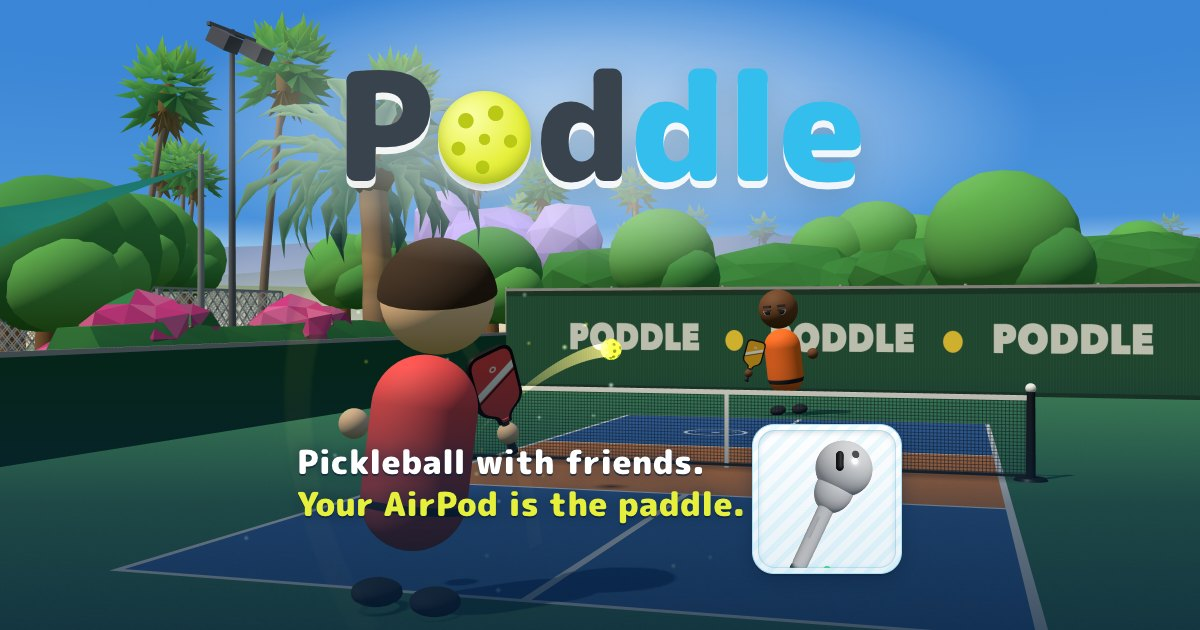
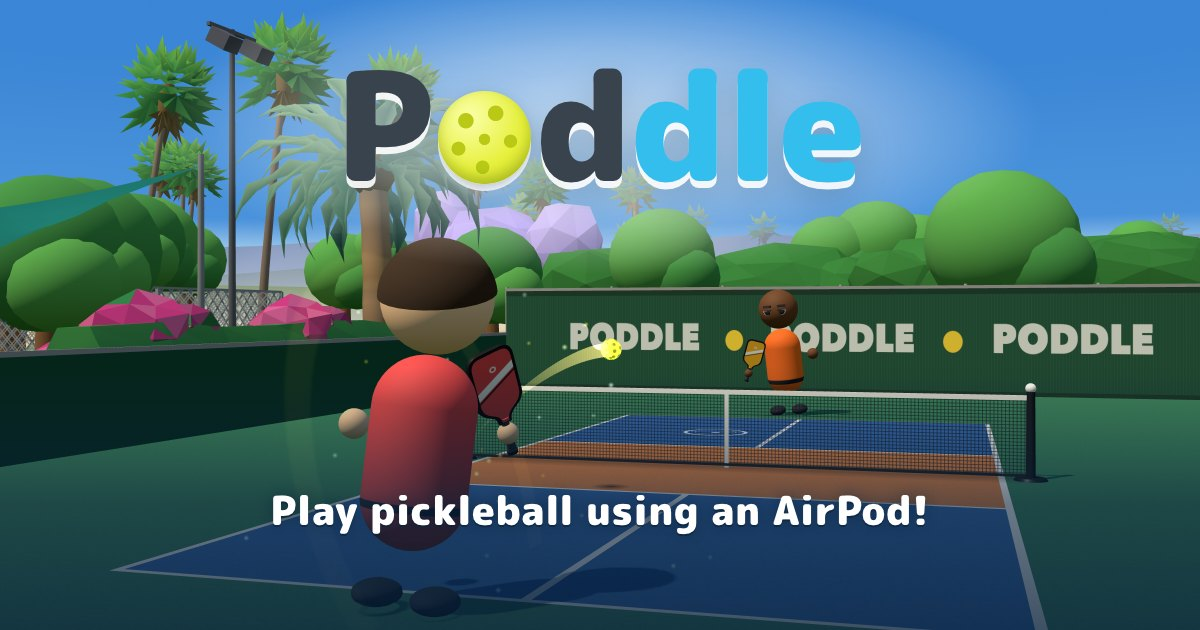
The site is poddleball.com: every URL, a redirect from the old names, and a simpler share card

Changed region(s): [[0.2158, 0.6635, 0.7708, 0.9349]]

diff --git a/web/how-to-play.html b/web/how-to-play.html
@@ -5,7 +5,7 @@
 <meta name="viewport" content="width=device-width, initial-scale=1">
 <title>How to play Poddle: AirPod pickleball</title>
 <meta name="description" content="Set up Poddle on your Mac, hold one AirPod like a paddle, and play friends online or Matt the bot.">
-<link rel="canonical" href="https://poddle.fly.dev/how-to-play.html">
+<link rel="canonical" href="https://poddleball.com/how-to-play.html">
 <meta name="robots" content="index, follow, max-image-preview:large">
 <meta name="theme-color" content="#dfeef6">
 <meta name="color-scheme" content="light">
@@ -16,20 +16,20 @@
 <meta property="og:site_name" content="Poddle">
 <meta property="og:title" content="How to play Poddle">
 <meta property="og:description" content="Set up Poddle on your Mac, hold one AirPod like a paddle, and play friends online or Matt the bot.">
-<meta property="og:url" content="https://poddle.fly.dev/how-to-play.html">
+<meta property="og:url" content="https://poddleball.com/how-to-play.html">
 <meta property="og:locale" content="en_US">
-<meta property="og:image" content="https://poddle.fly.dev/og.jpg?v=2">
-<meta property="og:image:secure_url" content="https://poddle.fly.dev/og.jpg?v=2">
+<meta property="og:image" content="https://poddleball.com/og.jpg?v=3">
+<meta property="og:image:secure_url" content="https://poddleball.com/og.jpg?v=3">
 <meta property="og:image:type" content="image/jpeg">
 <meta property="og:image:width" content="1200">
 <meta property="og:image:height" content="630">
-<meta property="og:image:alt" content="Poddle logo over a sunny pickleball court. A player in red hits the ball over the net to Matt in orange. A white AirPod sits beside the words: Pickleball with friends. Your AirPod is the paddle.">
+<meta property="og:image:alt" content="Poddle logo over a sunny pickleball court. A player in red hits the ball over the net to Matt in orange. Below them, the words: Play pickleball using an AirPod!">
 
 <meta name="twitter:card" content="summary_large_image">
 <meta name="twitter:title" content="How to play Poddle">
 <meta name="twitter:description" content="Set up Poddle on your Mac, hold one AirPod like a paddle, and play friends online or Matt the bot.">
-<meta name="twitter:image" content="https://poddle.fly.dev/og.jpg?v=2">
-<meta name="twitter:image:alt" content="Poddle logo over a sunny pickleball court. A player in red hits the ball over the net to Matt in orange. A white AirPod sits beside the words: Pickleball with friends. Your AirPod is the paddle.">
+<meta name="twitter:image" content="https://poddleball.com/og.jpg?v=3">
+<meta name="twitter:image:alt" content="Poddle logo over a sunny pickleball court. A player in red hits the ball over the net to Matt in orange. Below them, the words: Play pickleball using an AirPod!">
 
 <link rel="icon" href="/favicon.svg" type="image/svg+xml">
 <link rel="icon" href="/favicon-32.png" type="image/png" sizes="32x32">
@@ -44,18 +44,18 @@
   "@graph": [
     {
       "@type": "WebPage",
-      "@id": "https://poddle.fly.dev/how-to-play.html",
-      "url": "https://poddle.fly.dev/how-to-play.html",
+      "@id": "https://poddleball.com/how-to-play.html",
+      "url": "https://poddleball.com/how-to-play.html",
       "name": "How to play Poddle",
       "description": "Set up Poddle on your Mac, hold one AirPod like a paddle, and play friends online or Matt the bot.",
       "inLanguage": "en",
-      "primaryImageOfPage": "https://poddle.fly.dev/og.jpg",
-      "about": { "@id": "https://poddle.fly.dev/#game" },
-      "isPartOf": { "@type": "WebSite", "name": "Poddle", "url": "https://poddle.fly.dev/" }
+      "primaryImageOfPage": "https://poddleball.com/og.jpg",
+      "about": { "@id": "https://poddleball.com/#game" },
+      "isPartOf": { "@type": "WebSite", "name": "Poddle", "url": "https://poddleball.com/" }
     },
     {
       "@type": "FAQPage",
-      "@id": "https://poddle.fly.dev/how-to-play.html#questions",
+      "@id": "https://poddleball.com/how-to-play.html#questions",
       "mainEntity": [
         {
           "@type": "Question",
@@ -119,7 +119,7 @@
 
 <main class="wrap">
   <section class="intro" aria-labelledby="title">
-    <img class="hero" src="/og.jpg?v=2" width="1200" height="630" alt="Poddle logo over a sunny pickleball court. A player in red hits the ball over the net to Matt in orange. A white AirPod sits beside the words: Pickleball with friends. Your AirPod is the paddle.">
+    <img class="hero" src="/og.jpg?v=3" width="1200" height="630" alt="Poddle logo over a sunny pickleball court. A player in red hits the ball over the net to Matt in orange. Below them, the words: Play pickleball using an AirPod!">
     <h1 id="title">How to play Poddle</h1>
     <p class="lead">Poddle is pickleball in your browser. One AirPod in your hand is the paddle. Swing it and the paddle on screen swings with you. Play a friend online, play Matt the bot, or watch a match.</p>
     <p class="note"><strong>No Mac?</strong> Poddle plays on a Mac. On a phone or a Windows PC you can still watch a match. Press Play and pick Watch next to a court.</p>
@@ -154,7 +154,7 @@
       <li>Start the helper. It says <samp>motion bridge on</samp>. If your Mac asks to let Terminal use Motion and Fitness, choose Allow. Keep this window open while you play.
         <pre><code>node bridge/bridge.js</code></pre>
       </li>
-      <li>Open <a href="/">poddle.fly.dev</a> in Chrome. If Chrome asks to connect to devices on your local network, choose Allow. That is how the page reaches the helper.</li>
+      <li>Open <a href="/">poddleball.com</a> in Chrome. If Chrome asks to connect to devices on your local network, choose Allow. That is how the page reaches the helper.</li>
       <li>Hold one AirPod in your hand. Leave the other in its case.</li>
       <li>Hold it like a paddle handle, pointing at the screen, and keep still for 5 seconds. Then tip it up. Any grip works. Press <kbd>C</kbd> to start over.</li>
     </ol>

diff --git a/web/index.html b/web/index.html
@@ -4,7 +4,7 @@
 <meta name="viewport" content="width=device-width,initial-scale=1">
 <title>Poddle: pickleball you play with an AirPod</title>
 <meta name="description" content="Hold one AirPod and swing it like a paddle. Play pickleball with friends online, take on Matt the bot, or watch a match. Free, in Chrome on a Mac.">
-<link rel="canonical" href="https://poddle.fly.dev/">
+<link rel="canonical" href="https://poddleball.com/">
 <meta name="robots" content="index, follow, max-image-preview:large">
 <meta name="theme-color" content="#dfeef6">
 <meta name="color-scheme" content="light">
@@ -15,20 +15,20 @@
 <meta property="og:site_name" content="Poddle">
 <meta property="og:title" content="Poddle: pickleball you play with an AirPod">
 <meta property="og:description" content="Swing one AirPod like a paddle. Play friends online or take on Matt the bot. Free, on a Mac in Chrome.">
-<meta property="og:url" content="https://poddle.fly.dev/">
+<meta property="og:url" content="https://poddleball.com/">
 <meta property="og:locale" content="en_US">
-<meta property="og:image" content="https://poddle.fly.dev/og.jpg?v=2">
-<meta property="og:image:secure_url" content="https://poddle.fly.dev/og.jpg?v=2">
+<meta property="og:image" content="https://poddleball.com/og.jpg?v=3">
+<meta property="og:image:secure_url" content="https://poddleball.com/og.jpg?v=3">
 <meta property="og:image:type" content="image/jpeg">
 <meta property="og:image:width" content="1200">
 <meta property="og:image:height" content="630">
-<meta property="og:image:alt" content="Poddle logo over a sunny pickleball court. A player in red hits the ball over the net to Matt in orange. A white AirPod sits beside the words: Pickleball with friends. Your AirPod is the paddle.">
+<meta property="og:image:alt" content="Poddle logo over a sunny pickleball court. A player in red hits the ball over the net to Matt in orange. Below them, the words: Play pickleball using an AirPod!">
 
 <meta name="twitter:card" content="summary_large_image">
 <meta name="twitter:title" content="Poddle: pickleball you play with an AirPod">
 <meta name="twitter:description" content="Swing one AirPod like a paddle. Play friends online or take on Matt the bot. Free, on a Mac in Chrome.">
-<meta name="twitter:image" content="https://poddle.fly.dev/og.jpg?v=2">
-<meta name="twitter:image:alt" content="Poddle logo over a sunny pickleball court. A player in red hits the ball over the net to Matt in orange. A white AirPod sits beside the words: Pickleball with friends. Your AirPod is the paddle.">
+<meta name="twitter:image" content="https://poddleball.com/og.jpg?v=3">
+<meta name="twitter:image:alt" content="Poddle logo over a sunny pickleball court. A player in red hits the ball over the net to Matt in orange. Below them, the words: Play pickleball using an AirPod!">
 
 <link rel="icon" href="favicon.svg" type="image/svg+xml">
 <link rel="icon" href="favicon-32.png" type="image/png" sizes="32x32">
@@ -38,13 +38,13 @@
 {
   "@context": "https://schema.org",
   "@type": ["VideoGame", "WebApplication"],
-  "@id": "https://poddle.fly.dev/#game",
+  "@id": "https://poddleball.com/#game",
   "name": "Poddle",
   "alternateName": "Poddle AirPod pickleball",
-  "url": "https://poddle.fly.dev/",
+  "url": "https://poddleball.com/",
   "description": "Poddle is a browser pickleball game where one AirPod in your hand is the paddle. Play friends online, play Matt the bot, or watch a match.",
-  "image": "https://poddle.fly.dev/og.jpg",
-  "screenshot": "https://poddle.fly.dev/og.jpg",
+  "image": "https://poddleball.com/og.jpg",
+  "screenshot": "https://poddleball.com/og.jpg",
   "genre": ["Sports", "Pickleball"],
   "applicationCategory": "GameApplication",
   "applicationSubCategory": "Sports game",
@@ -56,7 +56,7 @@
   "inLanguage": "en",
   "isAccessibleForFree": true,
   "offers": { "@type": "Offer", "price": "0", "priceCurrency": "USD", "availability": "https://schema.org/InStock" },
-  "softwareHelp": { "@type": "CreativeWork", "url": "https://poddle.fly.dev/how-to-play.html" }
+  "softwareHelp": { "@type": "CreativeWork", "url": "https://poddleball.com/how-to-play.html" }
 }
 </script>
 <link rel="preload" href="vendor/fonts/mplus-rounded-1c-700.woff2" as="font" type="font/woff2" crossorigin>

diff --git a/test/og-card.html b/test/og-card.html
@@ -25,36 +25,17 @@ body{position:relative;font-family:"Poddle Rounded",sans-serif;-webkit-font-smoo
   background:radial-gradient(circle at 30% 32%, var(--ball-deep) 0 8%, transparent 9%), radial-gradient(circle at 62% 24%, var(--ball-deep) 0 8%, transparent 9%), radial-gradient(circle at 50% 52%, var(--ball-deep) 0 8%, transparent 9%),
     radial-gradient(circle at 22% 62%, var(--ball-deep) 0 7%, transparent 8%), radial-gradient(circle at 78% 54%, var(--ball-deep) 0 7%, transparent 8%), radial-gradient(circle at 48% 82%, var(--ball-deep) 0 7%, transparent 8%),
     radial-gradient(circle at 34% 28%, #fbffa8, var(--ball) 58%, #c5d124 100%);box-shadow:inset 0 -.04em .08em rgba(90,110,0,.35), 0 .03em .06em rgba(40,80,110,.25)}
-.tag{position:absolute;left:297px;top:442px;margin:0;text-align:left;color:#fff;font-weight:900;font-size:33px;line-height:1.27;letter-spacing:.005em;
+.tag{position:absolute;left:0;right:0;top:486px;margin:0;text-align:center;white-space:nowrap;color:#fff;font-weight:900;font-size:40px;line-height:1.2;letter-spacing:.005em;
   text-shadow:0 2px 0 rgba(8,32,58,.6), 0 0 16px rgba(8,32,58,.6)}
 .tag span{display:block;white-space:nowrap}
 .tag .hi{color:var(--ball)}
-/* web/ui.css .inset + .inset-pod, in px */
-.pod{position:absolute;left:752px;top:424px;width:150px;height:150px;box-sizing:border-box;padding:5px;border-radius:22px;border:1.5px solid #a9e0f6;line-height:0;
-  background:repeating-linear-gradient(135deg, rgba(52,190,237,.09) 0 6px, transparent 6px 14px), linear-gradient(180deg,#fff,#e6f1f7);box-shadow:0 2px 0 rgba(8,32,58,.3), 0 6px 18px rgba(8,32,58,.4)}
-.pod::after{content:"";position:absolute;inset:5px;border-radius:17px;box-shadow:inset 0 0 0 1px rgba(52,190,237,.25), inset 0 2px 6px rgba(20,60,90,.18);pointer-events:none}
-.pod canvas{display:block;width:100%;height:100%;border-radius:17px}
-#podgl{position:absolute;left:-9999px;top:0}
 </style></head><body>
 <img id="scene" src="ui-shots/seo/og-scene.png" alt="">
 <div id="haze"></div>
 <div class="logo"><div class="logo-mark" aria-label="Poddle"><span class="lg-a">P</span><span class="logo-ball"></span><span class="lg-a">d</span><span class="lg-b">dle</span></div></div>
-<p class="tag"><span>Pickleball with friends.</span><span class="hi">Your AirPod is the paddle.</span></p>
-<div class="pod"><canvas id="podc" width="440" height="440"></canvas></div><div id="podgl"></div>
-<script src="../web/vendor/three.min.js"></script>
+<p class="tag">Play pickleball using an AirPod!</p>
 <script type="module">
-  // the game's AirPod, drawn once at 2x and copied into the tile (a WebGL canvas may be blank by the time the screenshot is taken; a 2D one is not)
-  Object.defineProperty(window, 'devicePixelRatio', { get: () => 2 });
-  const { createPodView } = await import('../web/podview.js');
-  try {
-    const gl = document.getElementById('podgl'), view = createPodView(gl), T = window.THREE;
-    const q = new T.Quaternion().setFromEuler(new T.Euler(-0.2, -0.5, -0.5));           // tipped over like a paddle in the hand, its face to the camera
-    for (let i = 0; i < 40; i++) view.update([q.x, q.y, q.z, q.w]);                          // update() eases towards the pose: run it until it is there
-    const src = gl.querySelector('canvas'), c = document.getElementById('podc');
-    const S = src.width, k = .82;                                                            // the middle of the view: the AirPod fills the tile, most of the floor ring stays out
-    c.getContext('2d').drawImage(src, S * (1 - k) / 2, S * .02, S * k, S * k, 0, 0, c.width, c.height);
-    await Promise.all([document.fonts.load('900 150px "Poddle Rounded"'), document.fonts.load('800 40px "Poddle Rounded"'), document.getElementById('scene').decode()]);
-    await document.fonts.ready; document.title = 'ready';
-  } catch (e) { document.title = 'error ' + e; }
+  try { await Promise.all([document.fonts.load('900 150px "Poddle Rounded"'), document.fonts.load('900 40px "Poddle Rounded"'), document.getElementById('scene').decode()]);
+    await document.fonts.ready; document.title = 'ready'; } catch (e) { document.title = 'error ' + e; }
 </script>
 </body></html>

diff --git a/test/ui-mock.html b/test/ui-mock.html
@@ -74,7 +74,7 @@
     try { if (me) localStorage.setItem('poddle.name', me); else localStorage.removeItem('poddle.name'); } catch { /* fine */ }      // ui.js reads it as it loads
     const ui = await import('../web/ui.js'); window.__ui = ui;
     if (qs.get('bg')) $('stage').classList.add('bg-' + qs.get('bg'));
-    const hud = (a = 7, b = 5, rally = 4) => { $('stage').hidden = false; ui.showScreen(null); ui.setStatus({ airpod: 'ok', game: 'ok', camera: 'ok' }); ui.setRoom('K24M', 'https://poddle.fly.dev/?court=K24M'); ui.setNames({ them: opp, themSub: opp === 'Matt' ? 'Club' : 'Far side' }); ui.setBot(opp === 'Matt' ? 'Club' : null); ui.setScore(a, b); ui.setServe('me'); ui.setRally(rally); ui.setSettings({ sens: 8, airpod: true, stats: false, inRoom: true }); };
+    const hud = (a = 7, b = 5, rally = 4) => { $('stage').hidden = false; ui.showScreen(null); ui.setStatus({ airpod: 'ok', game: 'ok', camera: 'ok' }); ui.setRoom('K24M', 'https://poddleball.com/?court=K24M'); ui.setNames({ them: opp, themSub: opp === 'Matt' ? 'Club' : 'Far side' }); ui.setBot(opp === 'Matt' ? 'Club' : null); ui.setScore(a, b); ui.setServe('me'); ui.setRally(rally); ui.setSettings({ sens: 8, airpod: true, stats: false, inRoom: true }); };
     const watch = (view = 'broadcast', who = '') => { hud(6, 4, 7); $('camwrap').hidden = true; ui.setNames({ me: me || 'Player 1', meSub: '', them: opp, themSub: '' }); ui.setSpectator(true); ui.setWatchers(3); ui.setSettings({ spectator: true }); ui.setView(view, who); };
     const lobby = (view = 'home') => { $('stage').hidden = false; ui.showScreen('lobby'); ui.lobbyView(view); ui.lobbyRooms([{ code: 'KXQ7', players: 1, open: true, watch: 8, watchers: 0, score: [0, 0], live: false }, { code: 'M3PD', players: 2, open: false, watch: 6, watchers: 2, score: [7, 4], live: true },
       { code: 'RN2S', players: 2, open: false, watch: 0, watchers: 8, score: [10, 9], live: true }, { code: 'WXYZ', players: 1, open: true }], 5); };

diff --git a/server/game.js b/server/game.js
@@ -18,9 +18,12 @@ function notFound(req, res) {                                                   
   res.writeHead(404, { 'Content-Type': PAGE_404 ? 'text/html; charset=utf-8' : 'text/plain; charset=utf-8', 'Content-Length': body.length, 'Cache-Control': 'no-cache', 'X-Robots-Tag': 'noindex' });
   res.end(req.method === 'HEAD' ? undefined : body);
 }
+const SITE = 'poddleball.com', OLD_HOSTS = new Set(['poddle.fly.dev', 'www.poddleball.com']);      // the site's one name, and the names that forward to it
 const httpServer = http.createServer((req, res) => {
   res.setHeader('X-Content-Type-Options', 'nosniff');
   if (req.method !== 'GET' && req.method !== 'HEAD') { res.writeHead(405, { Allow: 'GET, HEAD', 'Content-Length': 0 }); return res.end(); }   // a WebSocket upgrade never comes through here
+  const host = String(req.headers.host || '').toLowerCase().replace(/:\d+$/, '');
+  if (OLD_HOSTS.has(host)) { res.writeHead(301, { Location: 'https://' + SITE + req.url, 'Cache-Control': 'public, max-age=3600', 'Content-Length': 0 }); return res.end(); }   // one address for people, crawlers and share cards. Sockets still connect on any host: an open tab from the old address keeps playing
   const [rawPath, ...query] = req.url.split('?');
   let rel; try { rel = decodeURIComponent(rawPath); } catch { rel = '/'; }
   if (rel.includes('\0')) { res.writeHead(400); return res.end(); }                                     // fs.stat THROWS on a null byte (GET /%00), and a throw in here ends the process and every room in it

diff --git a/NOTES.md b/NOTES.md
@@ -161,7 +161,7 @@ Build log. What we tried, what broke, and how each problem was solved.
   now tied to the swing event itself and its brightness follows how hard the swing is.
 
 ## 14. Hosting, and playing over a bad connection
-- **Hosted on fly.io** at `https://poddle.fly.dev` (`fly deploy --ha=false`). `server/game.js` now also serves `web/` on
+- **Hosted on fly.io** at `https://poddleball.com` (the fly app is `poddle`; `poddle.fly.dev` and `www.` redirect to it; `fly deploy --ha=false`). `server/game.js` now also serves `web/` on
   its own port, so the hosted game is one process behind one address; a page that did not come from localhost takes its
   game socket from the address it was loaded from. `bridge/` and `motion/` still run on each player's Mac. There must be
   exactly one machine: the match lives in that process's memory.

diff --git a/README.md b/README.md
@@ -46,7 +46,7 @@ Leave the other AirPod in its case.
 
 ## Play online
 
-Open https://poddle.fly.dev in Chrome. The game runs there, but your AirPod talks to your own Mac, so each player
+Open https://poddleball.com in Chrome. The game runs there, but your AirPod talks to your own Mac, so each player
 clones this repo and starts the AirPod bridge first:
 
 ```bash
